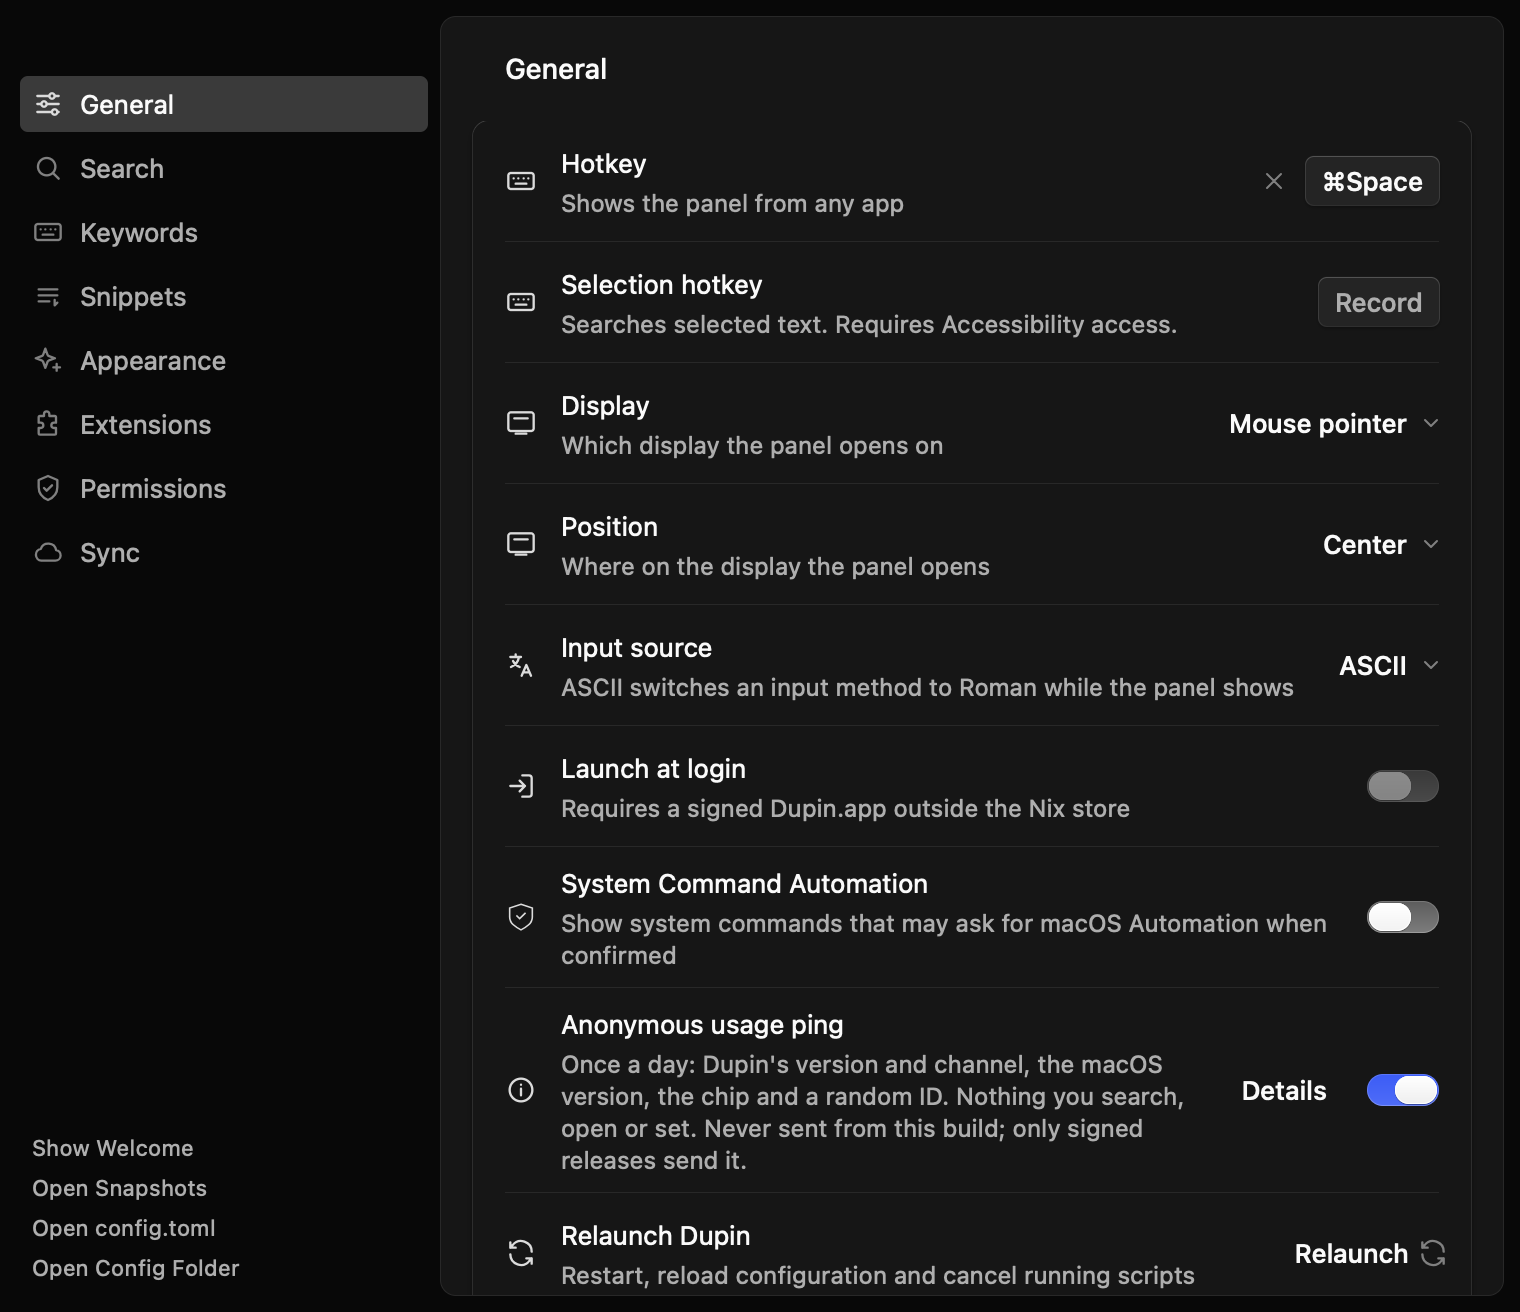
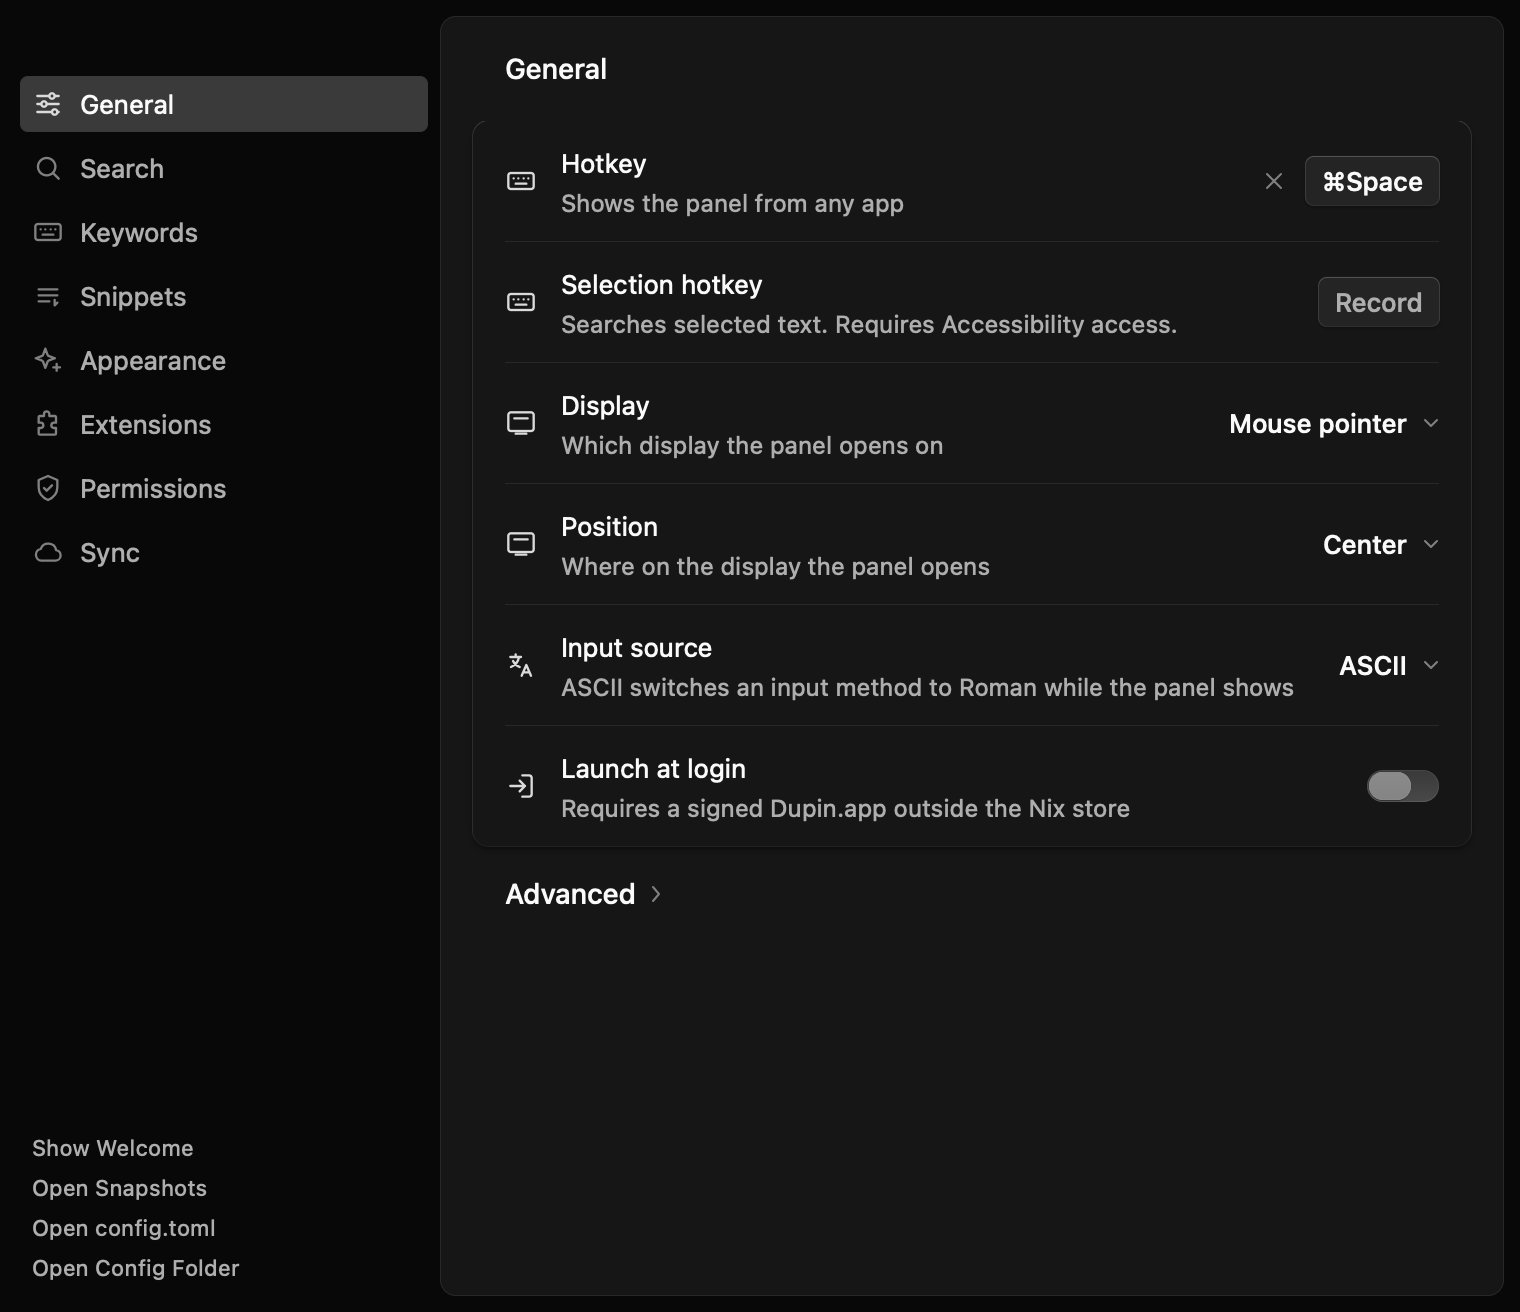
feat(settings): fold General's rarely changed rows under Advanced
General listed every row in one card, so the everyday choices (the
hotkeys, display, position, input source and launch at login) shared
it with switches people set once and a restart button. As in Hex's
settings, an "Advanced" disclosure below the card now holds them,
collapsed by default and remembered while Dupin runs:

- System Command Automation and the anonymous usage ping: each is a
  one-time opt-in with a long explanation.
- Relaunch Dupin: a troubleshooting action, not a setting.
- config.toml and the config folder, which were only in the sidebar
  footer. Both places now call the same open_config_file and
  open_config_folder.

The disclosure is a focusable button that reports whether it is
expanded, so it works from the keyboard and with VoiceOver.

diff --git a/crates/dupin/src/prefs/general.rs b/crates/dupin/src/prefs/general.rs
@@ -1,11 +1,12 @@
 use dupin_core::config::HotkeyTarget;
 use dupin_core::{DisplaySelection, InputSource, Position};
 use dupin_mac::login_item::{LoginItem, Status as LoginStatus};
-use rune::{El, Shortcut, Tx, col, row, text};
+use rune::{El, Shortcut, Tx, col, icon, row, text};
 use rune_kit::{Button, ButtonVariant, Kit, Switch};
+use rune_theme_opencode::icons::{CHEVRON_DOWN, CHEVRON_RIGHT};
 
 use super::Prefs;
-use super::controls::{ROW_PX, card, choose, menu_value, setting, setting_with_lock, value_button};
+use super::controls::{ROW_PX, card, choose, menu_value, setting, setting_with_lock, tilde, value_button};
 use super::shortcut::ShortcutKeycap;
 use crate::hotkey::LauncherShortcut;
 use crate::icons;
@@ -22,15 +23,69 @@ pub(super) fn page(s: &Prefs, k: &Kit) -> Vec<El> {
         position_setting(s, k),
         input_source_setting(s, k),
         login_setting(s, k),
-        automation_setting(s, k),
-        telemetry_setting(s, k),
-        relaunch_setting(k),
     ];
     let mut body = vec![card(k, rows)];
     if !s.config.bindings.is_empty() {
         body.push(configured_hotkeys(s, k));
     }
+    body.push(advanced_disclosure(s, k));
+    if s.advanced {
+        body.push(card(
+            k,
+            vec![
+                automation_setting(s, k),
+                telemetry_setting(s, k),
+                relaunch_setting(k),
+            ],
+        ));
+        body.push(card(k, vec![config_file_setting(k), config_folder_setting(k)]));
+    }
     body
+}
+
+/// The label that shows or hides the rows people rarely change.
+fn advanced_disclosure(s: &Prefs, k: &Kit) -> El {
+    let c = &k.c;
+    let glyph = if s.advanced { &CHEVRON_DOWN } else { &CHEVRON_RIGHT };
+    row()
+        .key("advanced")
+        .role("button")
+        .label("Advanced")
+        .expanded(s.advanced)
+        .focusable(true)
+        .focus_ring(2.0, 0.0, c.border_focus)
+        .self_start()
+        .h(24.0)
+        .ml(ROW_PX - 6.0)
+        .pl(6.0)
+        .pr(4.0)
+        .gap(2.0)
+        .center_y()
+        .radius(k.radius.sm)
+        .hover(c.hover)
+        .press(c.pressed)
+        .on_press(|s: &mut Prefs| s.advanced = !s.advanced)
+        .child(text("Advanced").font(k.ty.body_medium).color(c.text_base))
+        .child(icon(glyph, 16.0).color(c.icon_muted))
+}
+
+fn config_file_setting(k: &Kit) -> El {
+    let path = crate::settings::path().map(|path| tilde(&path.display().to_string()));
+    let open = value_button(k, "advanced-open-config", "Open", &CHEVRON_RIGHT)
+        .on_press(|_: &mut Prefs| super::open_config_file());
+    setting(k, &icons::FILES, "config.toml", path.as_deref(), open)
+}
+
+fn config_folder_setting(k: &Kit) -> El {
+    let open = value_button(k, "advanced-open-config-folder", "Open", &CHEVRON_RIGHT)
+        .on_press(|_: &mut Prefs| super::open_config_folder());
+    setting(
+        k,
+        &icons::FOLDER,
+        "Config folder",
+        Some("Holds config.toml, extensions/ and shaders/"),
+        open,
+    )
 }
 
 fn shortcut_recorder(s: &Prefs, k: &Kit, kind: LauncherShortcut, key: &str, label: &str, locked: bool) -> El {

diff --git a/crates/dupin/src/prefs/mod.rs b/crates/dupin/src/prefs/mod.rs
@@ -124,6 +124,8 @@ pub struct Prefs {
     /// Each visible permission's status in row order, read while the page shows.
     permissions: Vec<PermissionStatus>,
     calendar_access: CalendarAccess,
+    /// Whether General shows its Advanced cards, kept while Dupin runs.
+    advanced: bool,
     /// The first-run welcome's step while it covers the pages.
     welcome: Option<welcome::Step>,
     pub(crate) hotkey_problem: Option<String>,
@@ -190,6 +192,7 @@ impl Prefs {
             login: LoginPreference::current(),
             permissions: Vec::new(),
             calendar_access,
+            advanced: false,
             welcome: welcome.then_some(welcome::Step::Hotkey),
         }
     }
@@ -514,13 +517,8 @@ fn sidebar(s: &Prefs, k: &Kit) -> El {
         }
         pages = pages.child(item);
     }
-    let config = footer_link(k, "open-config", "Open config.toml").on_press(|_: &mut Prefs| {
-        if let Some(path) = crate::settings::path()
-            && path.exists()
-        {
-            std::thread::spawn(move || dupin_mac::workspace::open(&path));
-        }
-    });
+    let config =
+        footer_link(k, "open-config", "Open config.toml").on_press(|_: &mut Prefs| open_config_file());
     let folder = footer_link(k, "open-config-folder", "Open Config Folder")
         .on_press(|_: &mut Prefs| open_config_folder());
     col()
@@ -551,6 +549,15 @@ fn sidebar(s: &Prefs, k: &Kit) -> El {
             })
         }))
         .children(s.updater.available().then(|| updates::footer(s, k)))
+}
+
+/// Open config.toml in its default editor, when there is one.
+fn open_config_file() {
+    if let Some(path) = crate::settings::path()
+        && path.exists()
+    {
+        std::thread::spawn(move || dupin_mac::workspace::open(&path));
+    }
 }
 
 /// Open the folder holding config.toml, `extensions/` and `shaders/` in Finder, making it
@@ -640,6 +647,28 @@ mod tests {
             ("display", "Display", Role::ComboBox),
             ("system_automation", "System Command Automation", Role::Switch),
         ];
+        let advanced = |runtime: &mut rune::Runtime<Prefs>| {
+            runtime.frame(0.0);
+            let tree = runtime.accessibility_tree();
+            let shown = tree
+                .nodes
+                .iter()
+                .any(|(_, node)| node.label() == Some("System Command Automation"));
+            let (_, disclosure) = tree
+                .nodes
+                .iter()
+                .find(|(_, node)| node.role() == Role::Button && node.label() == Some("Advanced"))
+                .expect("the Advanced disclosure");
+            assert_eq!(disclosure.is_expanded(), Some(shown));
+            shown
+        };
+        assert!(!advanced(&mut runtime), "Advanced starts collapsed");
+        let (x, y) = runtime
+            .find("advanced")
+            .expect("the Advanced disclosure is drawn");
+        runtime.pointer_down(x, y);
+        runtime.pointer_up(x, y);
+        assert!(advanced(&mut runtime));
 
         for locked in [false, true] {
             runtime.update(|s, _| {

diff --git a/docs/features/system-commands.md b/docs/features/system-commands.md
@@ -13,16 +13,16 @@ Type a command's name, such as `sleep` or `lock`, in the main search.
 
 ## What you can do
 
-| Key / action                                                               | What it does                                                       |
-| -------------------------------------------------------------------------- | ------------------------------------------------------------------ |
-| <kbd>↩</kbd> on **Sleep**                                                  | Suspends the Mac                                                   |
-| <kbd>↩</kbd> on **Sleep Displays**                                         | Turns off the displays while the Mac stays awake                   |
-| <kbd>↩</kbd> on **Lock Screen**                                            | Locks the current session                                          |
-| <kbd>↩</kbd> on **Toggle Dark Mode**                                       | Switches the system appearance                                     |
-| <kbd>↩</kbd> on **Restart**, **Shut Down**, **Log Out** or **Empty Trash** | Opens a confirmation with **Cancel** selected                      |
-| Select the command in the confirmation, then <kbd>↩</kbd>                  | Runs it                                                            |
-| <kbd>↩</kbd> on **Restart Dupin**                                          | Relaunches Dupin, as **Relaunch** in Dupin Settings → General does |
-| <kbd>↩</kbd> on **Update Dupin**                                           | Restarts into a downloaded update, or checks for one now           |
+| Key / action                                                               | What it does                                                                  |
+| -------------------------------------------------------------------------- | ----------------------------------------------------------------------------- |
+| <kbd>↩</kbd> on **Sleep**                                                  | Suspends the Mac                                                              |
+| <kbd>↩</kbd> on **Sleep Displays**                                         | Turns off the displays while the Mac stays awake                              |
+| <kbd>↩</kbd> on **Lock Screen**                                            | Locks the current session                                                     |
+| <kbd>↩</kbd> on **Toggle Dark Mode**                                       | Switches the system appearance                                                |
+| <kbd>↩</kbd> on **Restart**, **Shut Down**, **Log Out** or **Empty Trash** | Opens a confirmation with **Cancel** selected                                 |
+| Select the command in the confirmation, then <kbd>↩</kbd>                  | Runs it                                                                       |
+| <kbd>↩</kbd> on **Restart Dupin**                                          | Relaunches Dupin, as **Relaunch** in Dupin Settings → General → Advanced does |
+| <kbd>↩</kbd> on **Update Dupin**                                           | Restarts into a downloaded update, or checks for one now                      |
 
 ## Notes
 
@@ -47,6 +47,6 @@ When no update is downloaded, **Update Dupin** checks for one now and says what 
 system_automation = false # show Restart, Shut Down, Log Out and Empty Trash, which send Apple events
 ```
 
-| Key                 | Default | Meaning                                                                                              |
-| ------------------- | ------- | ---------------------------------------------------------------------------------------------------- |
-| `system_automation` | `false` | Show Restart, Shut Down, Log Out and Empty Trash. Settings → General → **System Command Automation** |
+| Key                 | Default | Meaning                                                                                                         |
+| ------------------- | ------- | --------------------------------------------------------------------------------------------------------------- |
+| `system_automation` | `false` | Show Restart, Shut Down, Log Out and Empty Trash. Settings → General → Advanced → **System Command Automation** |

diff --git a/docs/features/settings.md b/docs/features/settings.md
@@ -10,11 +10,12 @@ Press <kbd>⌘,</kbd> in the panel, or type `dupin settings` and press <kbd>↩<
 
 - A sidebar of pages: General, Search, Keywords, Snippets, Appearance, Permissions, Sync, Updates and more.
 - At the foot of the sidebar: **Open config.toml**, **Open Config Folder**, **Show Welcome** and **Acknowledgements**.
+- At the foot of General, **Advanced** shows the rows you rarely change: System Command Automation, the anonymous usage ping, Relaunch, and config.toml and its folder.
 - Rows a read-only `config.toml` sets are locked and marked **Managed by Nix** or **Set in config.toml**.
 
 <picture>
 <source media="(prefers-color-scheme: dark)" srcset="../images/settings/general-dark.png" />
-<img alt="Settings → General: hotkey, selection hotkey, display, position, input source, launch at login and more, with the pages in the sidebar." src="../images/settings/general-light.png" width="760" />
+<img alt="Settings → General: hotkey, selection hotkey, display, position, input source and launch at login, with Advanced collapsed below them and the pages in the sidebar." src="../images/settings/general-light.png" width="760" />
 </picture>
 
 <picture>
@@ -84,7 +85,7 @@ The welcome appears once. It is skipped for anyone who used Dupin before: when i
 
 In Settings → General, turn **Launch at login** on or off. If macOS requires approval, choose **Open Login Items** and allow Dupin in System Settings; Dupin refreshes the status when you return.
 
-Choose **Relaunch** in Settings → General to restart Dupin. If an update is already staged, relaunch installs it first.
+Choose **Relaunch** in Settings → General → Advanced to restart Dupin. If an update is already staged, relaunch installs it first.
 
 > [!NOTE]
 > This setting is managed by macOS and is available in the signed app bundle outside the Nix store. With Nix, use `launchd.enable`; see [Configuration › Nix](../configuration.md#nix).

diff --git a/docs/features/telemetry.md b/docs/features/telemetry.md
@@ -66,7 +66,7 @@ The launch that told you sends nothing, so you can turn it off before the first 
 
 Any of these turns it off, and each takes effect at once, in the running launcher:
 
-- **Settings → General → Anonymous usage ping**: switch it off.
+- **Settings → General → Advanced → Anonymous usage ping**: switch it off.
 - In `config.toml`:
 
   ```toml
